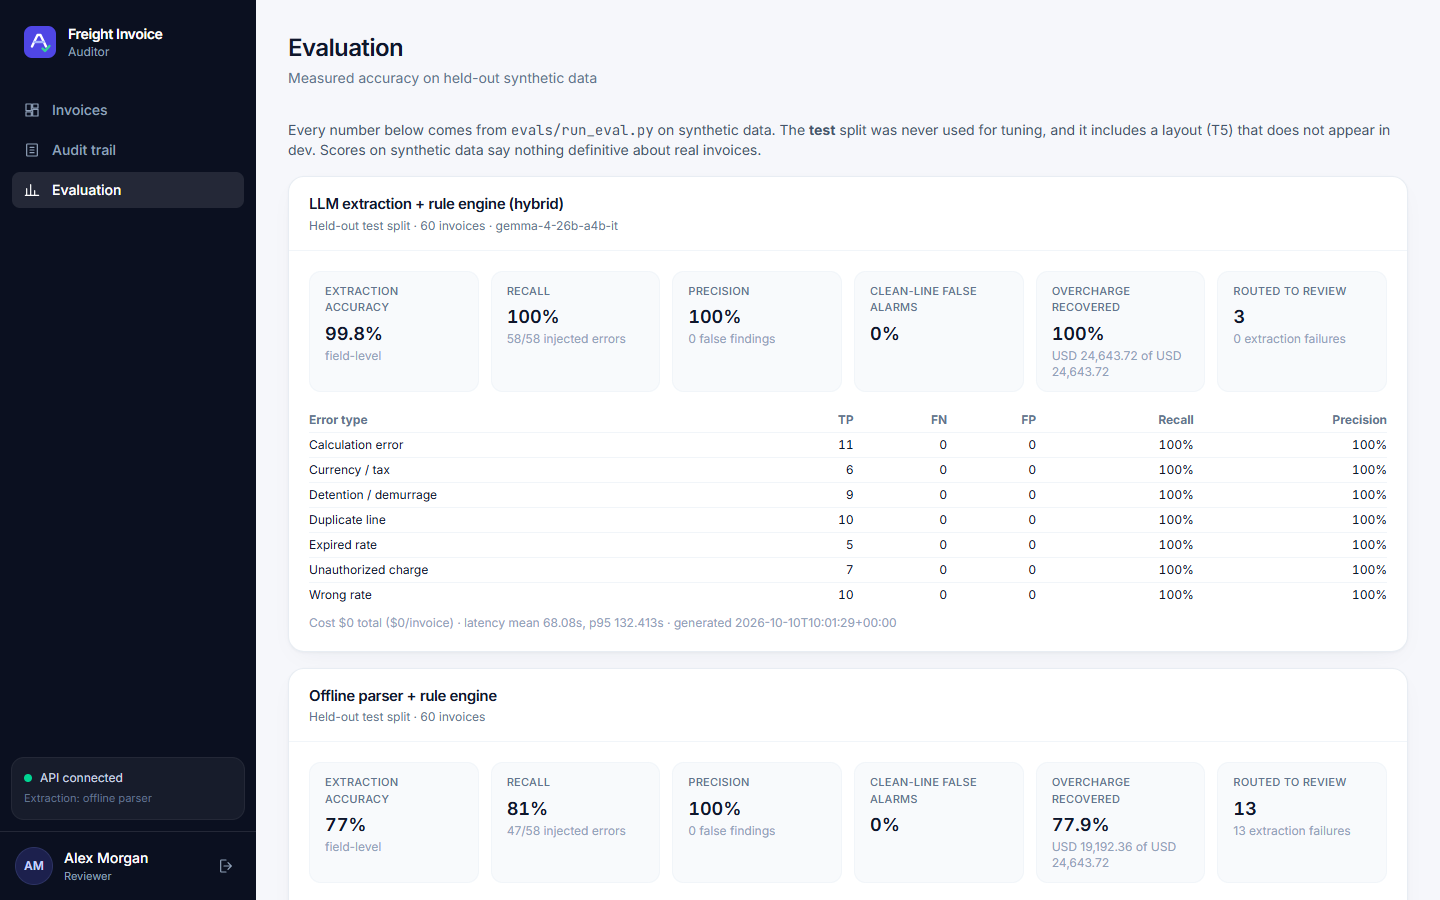
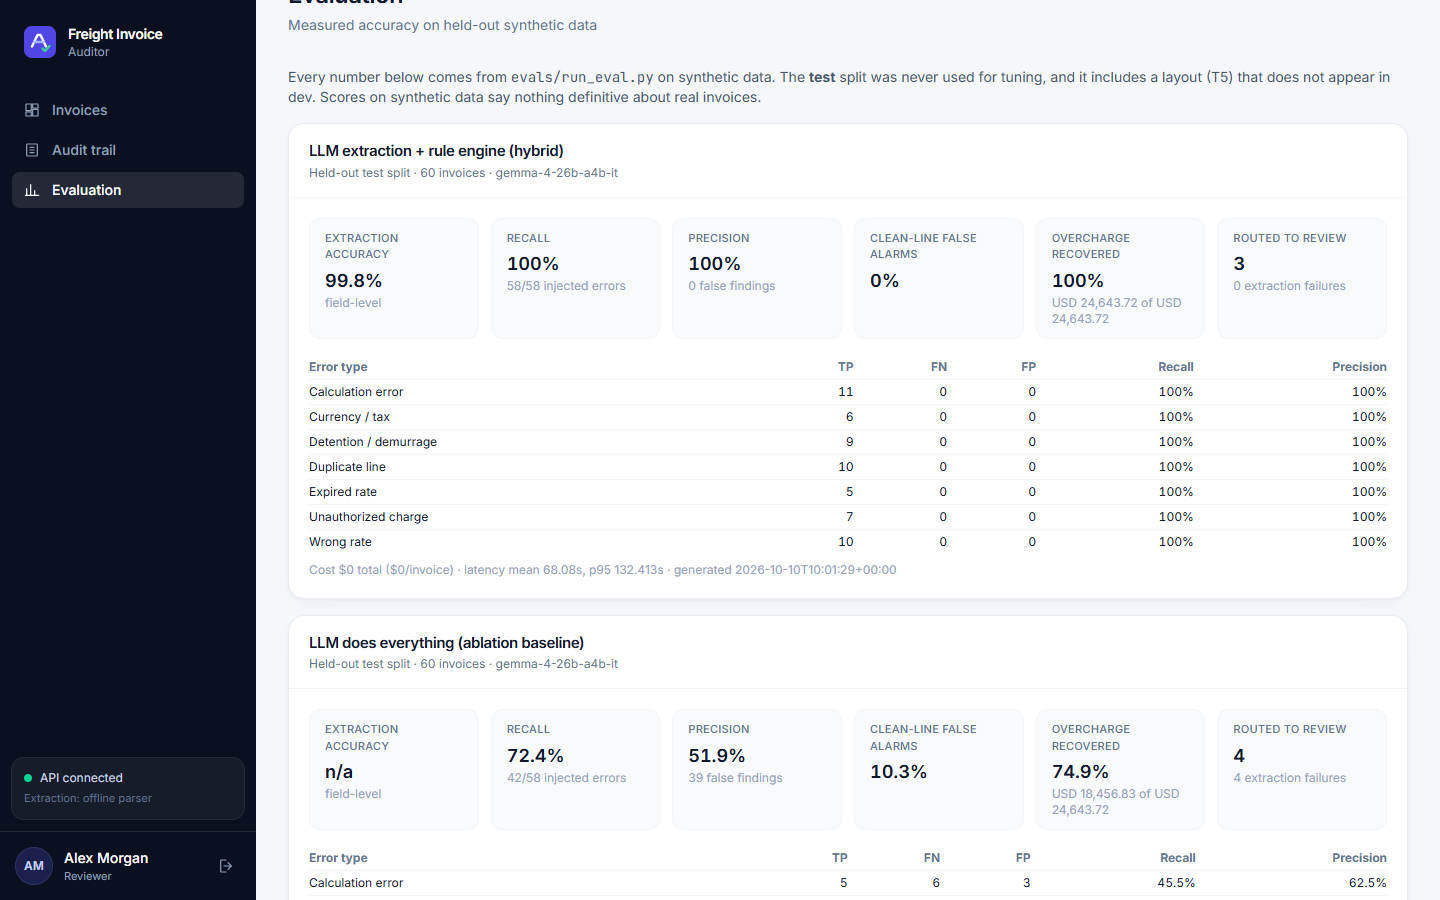
Freight Audit: fresh-split ablation result and evaluation screenshot

diff --git a/src/profile.ts b/src/profile.ts
@@ -264,9 +264,9 @@ export const freightAudit: FeaturedProjectData = {
       kicker: "The result",
       title: "Measured, not claimed",
       body:
-        "In an ablation on 60 held-out invoices, letting the same model judge invoices itself dropped precision from " +
-        "98.1% to 65.7% and made USD 7,030 of false claims against carriers, versus USD 138. After fixing two " +
-        "extraction gaps found on the dev set, the hybrid scored 100% precision and recall on a fresh test split.",
+        "On 60 unseen invoices, the hybrid caught all 58 injected errors with no false findings. Given the same " +
+        "PDFs, letting the model judge the invoices itself dropped precision to 51.9% and falsely accused carriers on " +
+        "9 of the 25 invoices that had no errors.",
     },
   ],
 
@@ -277,7 +277,7 @@ export const freightAudit: FeaturedProjectData = {
     { id: "findings", label: "Evidence", title: "Findings with evidence", caption: "An expired rate and miscalculated detention, each with the invoice line and the contract clause side by side.", image: "/freight/findings.png" },
     { id: "dispute", label: "Approval", title: "Approval-gated dispute", caption: "A drafted dispute email the reviewer can edit, approve or reject. Sending stays locked until a signed-in reviewer approves.", image: "/freight/dispute.png" },
     { id: "audit", label: "Audit trail", title: "Tamper-evident log", caption: "Every upload, extraction, audit and approval, each event chained to the previous one by SHA-256.", image: "/freight/audit.png" },
-    { id: "eval", label: "Evaluation", title: "Measured accuracy", caption: "Extraction accuracy, recall, precision and recovered money per error type, on a held-out test split.", image: "/freight/eval.png" },
+    { id: "eval", label: "Evaluation", title: "Measured accuracy", caption: "The hybrid against an LLM-only baseline on the same unseen invoices: 100% vs 51.9% precision, per error type.", image: "/freight/eval.png" },
   ],
 
   engineering: [
